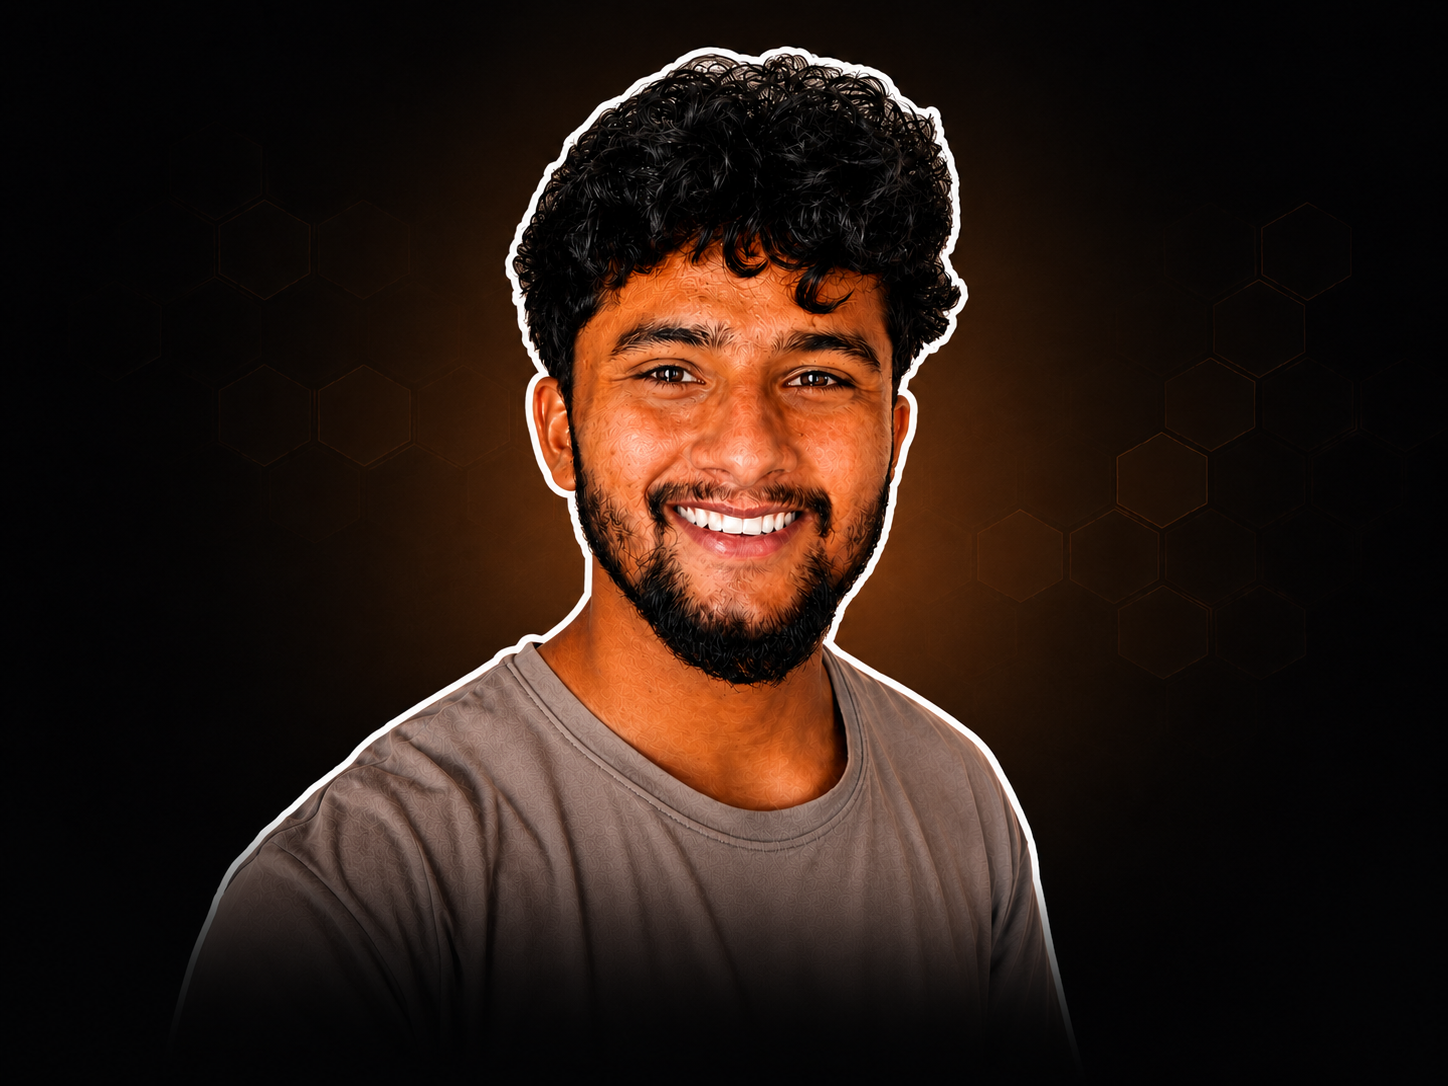
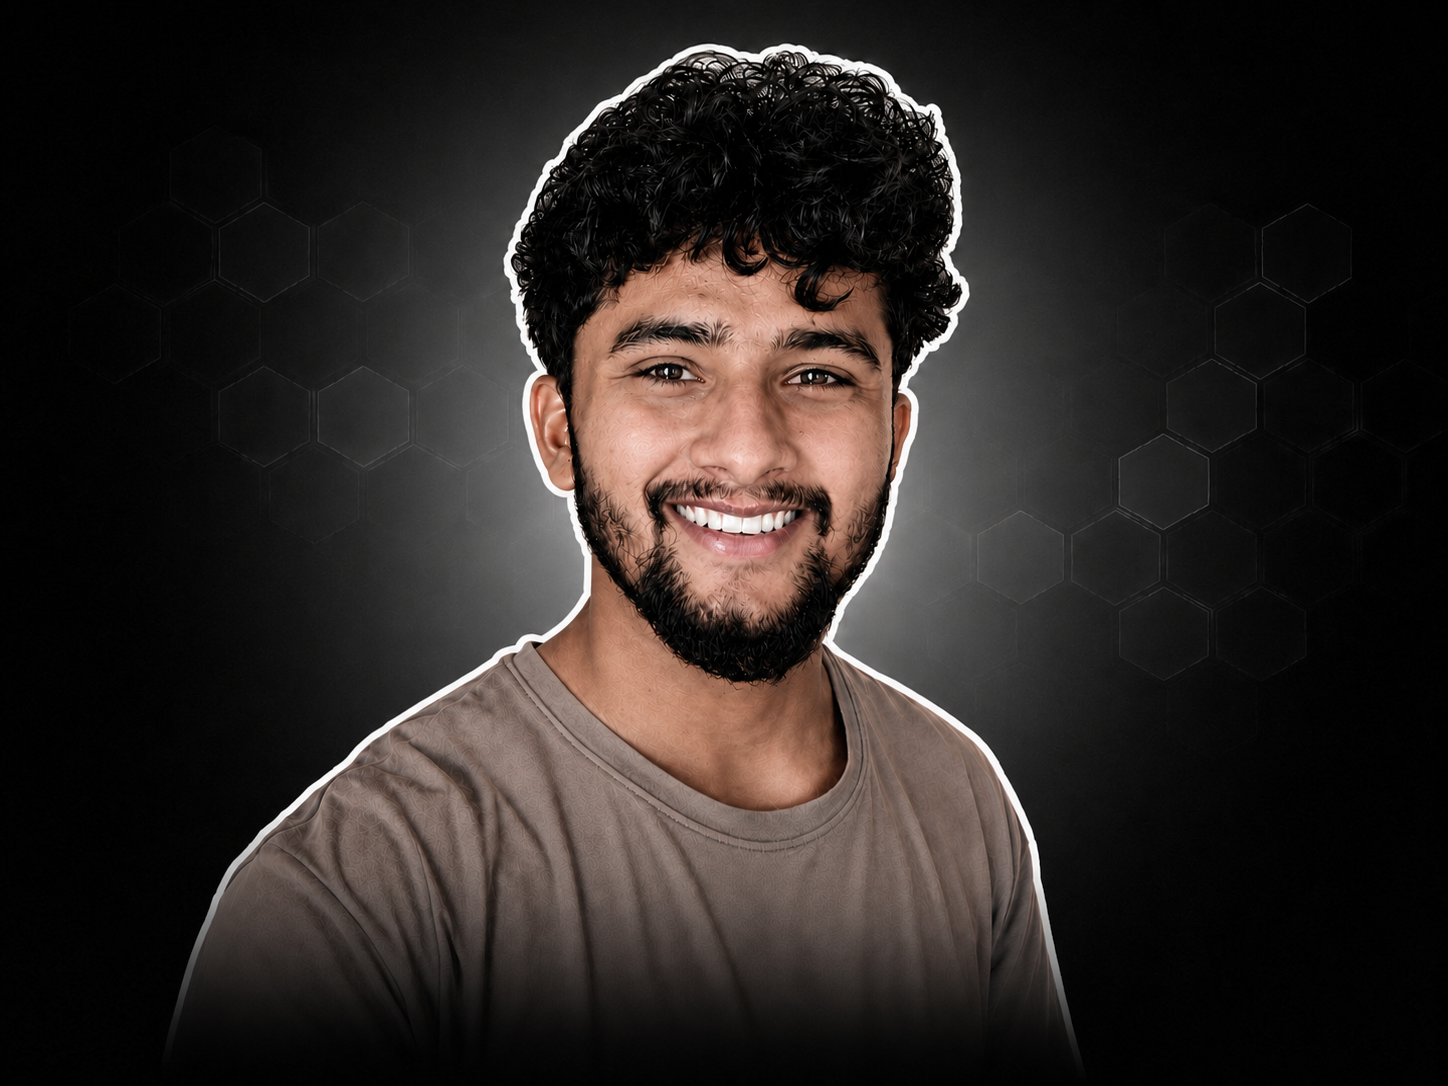
Enhance hero section navigation and styling

diff --git a/client/src/Components/HeroSlider.jsx b/client/src/Components/HeroSlider.jsx
@@ -2,12 +2,20 @@ import { useEffect, useMemo, useState } from 'react'
 import { Link } from 'react-router-dom'
 import useTypingAnimation from '../Hooks/useTypingAnimation'
 import { getImages, getImageUrl } from '../api'
+import heroImg from '../assets/heroImg.png'
+import heroImg1 from '../assets/heroImg1.png'
 
 const words = [
   'Modern Web Experiences.',
   'Scalable MERN Apps.',
   'Clean, Fast UIs.',
   'Real-World Products.',
+]
+
+// Fallback hero images when API is unavailable
+const fallbackHeroImages = [
+  { id: 'fallback-1', title: 'Portfolio Hero', image_url: heroImg },
+  { id: 'fallback-2', title: 'Portfolio Hero Alt', image_url: heroImg1 },
 ]
 
 const HeroSlider = () => {
@@ -48,14 +56,22 @@ const HeroSlider = () => {
           )
         }
 
-        setSlides(withUrl)
+        // Use API images if available, otherwise fallback to local images
+        const imagesToUse = withUrl.length > 0 ? withUrl : fallbackHeroImages
+        setSlides(imagesToUse)
         setCurrentIndex(0)
-        setStatus(withUrl.length > 0 ? 'ready' : 'empty')
+        setStatus('ready')
+        
+        if (withUrl.length === 0) {
+          console.log('[HeroSlider] Using fallback local images')
+        }
       } catch (error) {
         console.error('[HeroSlider] Error fetching hero images:', error)
         if (!cancelled) {
-          setSlides([])
-          setStatus('error')
+          // On API failure, use fallback images
+          console.log('[HeroSlider] API failed, using fallback local images')
+          setSlides(fallbackHeroImages)
+          setStatus('ready')
         }
       }
     }
@@ -155,49 +171,71 @@ const HeroSlider = () => {
   }, [status, activeSlide, imageSrc, safeIndex, imgError])
 
   return (
-    <div className="min-h-screen w-full overflow-hidden bg-black">
-      <div
-        className="mx-auto flex max-w-7xl flex-col-reverse items-center justify-between px-4 py-20 sm:px-6 lg:flex-row lg:px-8"
-      >
-        <div className="mt-8 flex w-full flex-col justify-center text-center lg:mt-0 lg:w-1/2 lg:text-left">
-          <p className="mb-4 text-xs uppercase tracking-[3px] text-white sm:text-sm">
-            Full Stack Developer • React • Node.js
-          </p>
+    <div className="relative min-h-screen w-full overflow-hidden bg-gradient-to-br from-gray-900 via-black to-slate-900">
+      {/* Enhanced Background Effects */}
+      <div className="absolute inset-0">
+        <div className="absolute top-20 left-10 h-72 w-72 rounded-full bg-orange-500/10 blur-3xl animate-pulse"></div>
+        <div className="absolute bottom-20 right-10 h-96 w-96 rounded-full bg-purple-500/10 blur-3xl animate-pulse delay-1000"></div>
+        <div className="absolute top-1/2 left-1/2 h-40 w-40 -translate-x-1/2 -translate-y-1/2 rounded-full bg-cyan-500/10 blur-2xl animate-pulse delay-500"></div>
+      </div>
 
+      {/* Animated grid pattern */}
+      <div className="absolute inset-0 bg-[linear-gradient(rgba(255,255,255,0.02)_1px,transparent_1px),linear-gradient(90deg,rgba(255,255,255,0.02)_1px,transparent_1px)] bg-[size:100px_100px] [mask-image:radial-gradient(ellipse_80%_50%_at_50%_0%,#000_70%,transparent_110%)]"></div>
+
+      <div className="relative z-10 mx-auto flex max-w-7xl flex-col-reverse items-center justify-between px-4 py-20 sm:px-6 lg:flex-row lg:px-8 min-h-screen">
+        <div className="mt-8 flex w-full flex-col justify-center text-center lg:mt-0 lg:w-1/2 lg:text-left">
+          {/* Enhanced Badge */}
+          <div className="mb-6 inline-flex items-center justify-center lg:justify-start">
+            <span className="rounded-full bg-gradient-to-r from-orange-500/20 to-purple-500/20 backdrop-blur-sm border border-orange-500/30 px-4 py-2 text-xs font-semibold tracking-[3px] text-orange-300 uppercase animate-fade-in">
+              Full Stack Developer • React • Node.js
+            </span>
+          </div>
+
+          {/* Enhanced Main Title */}
           <h1 className="text-4xl font-bold leading-tight text-white sm:text-5xl md:text-6xl lg:text-7xl">
-            Building{' '}
-            <span className="text-orange-500">
+            <span className="inline-block animate-fade-in">Building</span>{' '}
+            <span className="inline-block bg-gradient-to-r from-orange-400 via-orange-500 to-orange-600 bg-clip-text text-transparent animate-gradient bg-[length:200%_200%]">
               {typed}
-              <span className="animate-pulse">|</span>
+              <span className="animate-pulse text-orange-400">|</span>
             </span>
           </h1>
 
-          <p className="mx-auto mt-5 max-w-xl text-sm leading-7 text-gray-400 sm:text-base md:text-lg lg:mx-0">
-            I craft <span className="font-medium text-white">fast, scalable web apps</span> with{' '}
-            <span className="font-medium text-white">React, Node.js & MongoDB</span> — turning
+          {/* Enhanced Description */}
+          <p className="mx-auto mt-6 max-w-xl text-base leading-8 text-gray-300 sm:text-lg md:text-xl lg:mx-0 animate-fade-in delay-300">
+            I craft <span className="font-semibold text-white bg-gradient-to-r from-white to-gray-200 bg-clip-text">fast, scalable web apps</span> with{' '}
+            <span className="font-semibold text-orange-400">React, Node.js & MongoDB</span> — turning
             real-world problems into{' '}
-            <span className="font-medium text-white">clean, intuitive products</span> that users
+            <span className="font-semibold text-white bg-gradient-to-r from-white to-gray-200 bg-clip-text">clean, intuitive products</span> that users
             actually enjoy.
           </p>
 
-          <div className="mt-8 flex flex-col justify-center gap-4 sm:flex-row lg:justify-start">
+          {/* Enhanced CTA Buttons */}
+          <div className="mt-10 flex flex-col justify-center gap-4 sm:flex-row lg:justify-start animate-fade-in delay-500">
             <Link
               to="/work"
-              className="rounded-lg bg-white px-6 py-3 font-semibold text-black transition-all duration-300 hover:bg-orange-400 hover:text-white"
+              className="group relative overflow-hidden rounded-xl bg-gradient-to-r from-orange-500 to-orange-600 px-8 py-4 font-semibold text-white shadow-lg shadow-orange-500/25 transition-all duration-300 hover:scale-105 hover:shadow-xl hover:shadow-orange-500/40"
             >
-              View Projects
+              <span className="relative z-10">View Projects</span>
+              <div className="absolute inset-0 bg-gradient-to-r from-orange-600 to-orange-700 opacity-0 transition-opacity duration-300 group-hover:opacity-100"></div>
             </Link>
             <Link
               to="/contact"
-              className="rounded-lg border border-gray-700 px-6 py-3 text-white transition-all duration-300 hover:text-orange-400"
+              className="group rounded-xl border border-gray-600/50 bg-gray-800/30 backdrop-blur-sm px-8 py-4 font-semibold text-white transition-all duration-300 hover:scale-105 hover:border-orange-500/50 hover:bg-gray-700/40 hover:text-orange-300"
             >
-              Contact
+              <span className="relative z-10">Get In Touch</span>
             </Link>
           </div>
         </div>
 
+        {/* Enhanced Image Container */}
         <div className="relative flex w-full items-center justify-center lg:w-1/2">
-          {imageBlock}
+          <div className="relative">
+            {/* Image glow effect */}
+            <div className="absolute -inset-4 rounded-3xl bg-gradient-to-r from-orange-500/20 to-purple-500/20 blur-2xl"></div>
+            <div className="relative rounded-3xl border border-gray-700/50 bg-gray-800/20 backdrop-blur-sm p-2">
+              {imageBlock}
+            </div>
+          </div>
         </div>
       </div>
     </div>

diff --git a/client/src/Components/Navbar.jsx b/client/src/Components/Navbar.jsx
@@ -24,23 +24,35 @@ const Navbar = () => {
   const closeMobile = () => setMobileView(false)
 
   return (
-    <nav className="w-full bg-black shadow-md fixed top-0 left-0 z-50" key={location.pathname}>
+    <nav className="w-full bg-black/80 backdrop-blur-md shadow-lg shadow-black/20 border-b border-white/5 fixed top-0 left-0 z-50" key={location.pathname}>
       <div className="max-w-7xl mx-auto px-4 sm:px-6 lg:px-8">
         <div className="flex items-center justify-between h-16">
 
           {/* Logo */}
           <Link to="/" onClick={closeMobile}>
-            <div className="text-xl sm:text-2xl font-bold tracking-wide text-white cursor-pointer">
-              <span className="text-white">Gyanendra</span>
-              <span className="text-orange-500 text-3xl">.</span>
+            <div className="text-xl sm:text-2xl font-bold tracking-wide cursor-pointer group">
+              <span className="bg-gradient-to-r from-white via-gray-200 to-white bg-clip-text text-transparent group-hover:from-orange-400 group-hover:via-orange-500 group-hover:to-orange-400 transition-all duration-300">Gyanendra</span>
+              <span className="text-orange-500 text-3xl group-hover:scale-110 inline-block transition-transform duration-300">.</span>
             </div>
           </Link>
 
           {/* Desktop Menu */}
           <ul className="hidden md:flex items-center gap-8 text-white font-medium text-sm lg:text-base">
             {navItems.map((item) => (
-              <li key={item.path} className="cursor-pointer transition-all duration-300 hover:text-red-400 hover:scale-105">
-                <NavLink to={item.path} className={linkClass}>{item.name}</NavLink>
+              <li key={item.path} className="relative cursor-pointer group">
+                <NavLink 
+                  to={item.path} 
+                  className={({ isActive }) => 
+                    `relative px-3 py-2 rounded-lg transition-all duration-300 ${
+                      isActive
+                        ? 'text-orange-400 bg-orange-500/10'
+                        : 'text-gray-300 hover:text-white hover:bg-white/5'
+                    }`
+                  }
+                >
+                  {item.name}
+                  <span className="absolute -bottom-1 left-1/2 w-0 h-0.5 bg-gradient-to-r from-orange-400 to-orange-600 transform -translate-x-1/2 transition-all duration-300 group-hover:w-full" />
+                </NavLink>
               </li>
             ))}
           </ul>
@@ -68,22 +80,33 @@ const Navbar = () => {
 
       {/* Mobile Sidebar */}
       <div
-        className={`fixed top-0 right-0 h-screen w-[75%] sm:w-[50%] bg-black/50 shadow-2xl z-50 transform transition-transform duration-500 ease-in-out md:hidden ${
+        className={`fixed top-0 right-0 h-screen w-[75%] sm:w-[50%] bg-black/90 backdrop-blur-xl border-l border-white/10 shadow-2xl z-50 transform transition-transform duration-500 ease-in-out md:hidden ${
           mobileView ? 'translate-x-0' : 'translate-x-full'
         }`}
       >
-        <div className="flex justify-end p-5">
-          <button onClick={closeMobile} className="text-white transition-transform duration-300 hover:rotate-90 hover:scale-110" aria-label="Close menu">
-            <svg xmlns="http://www.w3.org/2000/svg" width="30" height="30" viewBox="0 0 24 24" fill="none" stroke="currentColor" strokeWidth="2" strokeLinecap="round" strokeLinejoin="round">
+        <div className="flex justify-end p-6">
+          <button onClick={closeMobile} className="text-white p-2 rounded-full hover:bg-white/10 transition-all duration-300 hover:rotate-90 hover:scale-110" aria-label="Close menu">
+            <svg xmlns="http://www.w3.org/2000/svg" width="24" height="24" viewBox="0 0 24 24" fill="none" stroke="currentColor" strokeWidth="2" strokeLinecap="round" strokeLinejoin="round">
               <path d="M18 6 6 18" /><path d="m6 6 12 12" />
             </svg>
           </button>
         </div>
 
-        <ul className="flex flex-col items-start gap-8 px-8 py-6 text-white text-lg font-medium">
+        <ul className="flex flex-col gap-2 px-6 py-4 text-white text-lg font-medium">
           {navItems.map((item) => (
-            <li key={item.path} onClick={closeMobile} className="cursor-pointer transition-all duration-300 hover:text-red-400 hover:translate-x-2">
-              <NavLink to={item.path} className={linkClass}>{item.name}</NavLink>
+            <li key={item.path} onClick={closeMobile}>
+              <NavLink 
+                to={item.path} 
+                className={({ isActive }) => 
+                  `block px-4 py-3 rounded-xl transition-all duration-300 ${
+                    isActive
+                      ? 'text-orange-400 bg-orange-500/10 border-l-2 border-orange-400'
+                      : 'text-gray-300 hover:text-white hover:bg-white/5 hover:translate-x-2'
+                  }`
+                }
+              >
+                {item.name}
+              </NavLink>
             </li>
           ))}
         </ul>

diff --git a/client/src/index.css b/client/src/index.css
@@ -1,10 +1,26 @@
 @import "tailwindcss";
 
 @theme {
-  --animate-fade-in: fadeIn 0.6s ease-in-out;
+  --animate-fade-in: fadeIn 0.8s ease-out;
+  --animate-gradient: gradient 3s ease infinite;
 
   @keyframes fadeIn {
-    0%   { opacity: 0; }
-    100% { opacity: 1; }
+    0% { 
+      opacity: 0; 
+      transform: translateY(20px);
+    }
+    100% { 
+      opacity: 1; 
+      transform: translateY(0);
+    }
+  }
+
+  @keyframes gradient {
+    0%, 100% {
+      background-position: 0% 50%;
+    }
+    50% {
+      background-position: 100% 50%;
+    }
   }
 }
